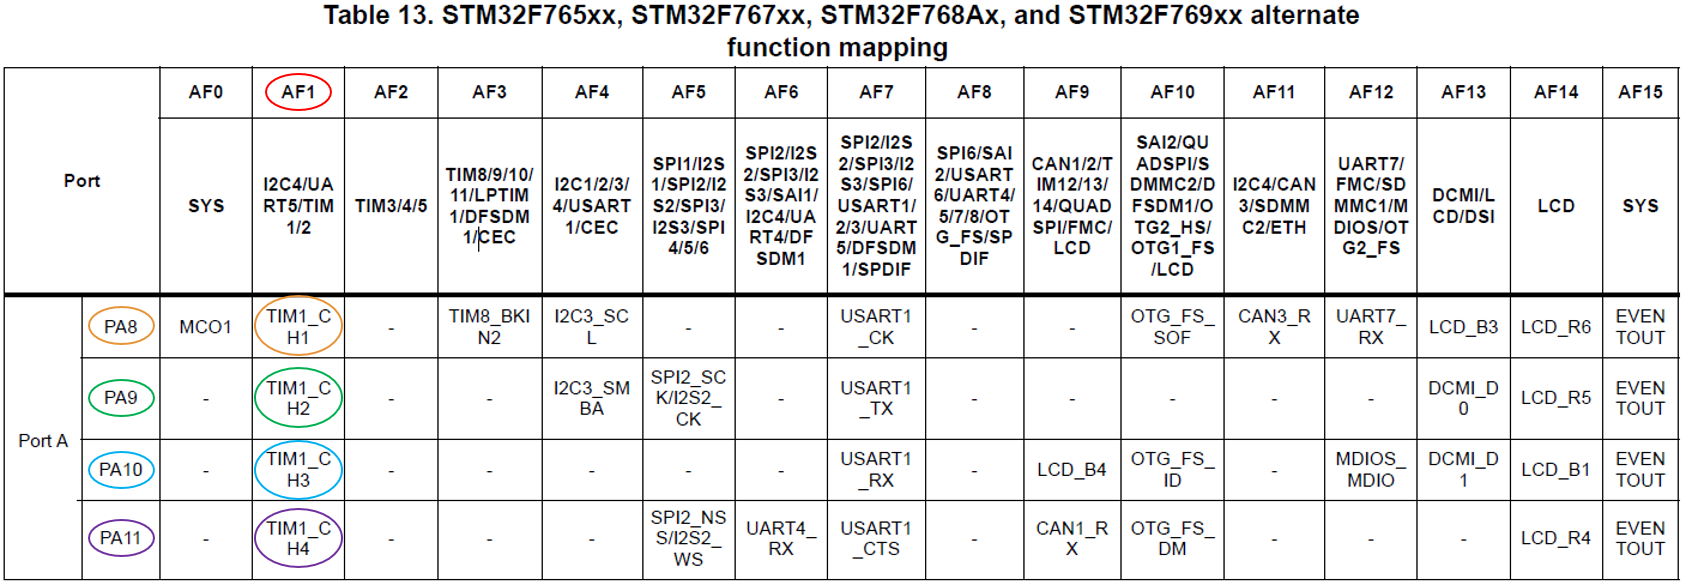
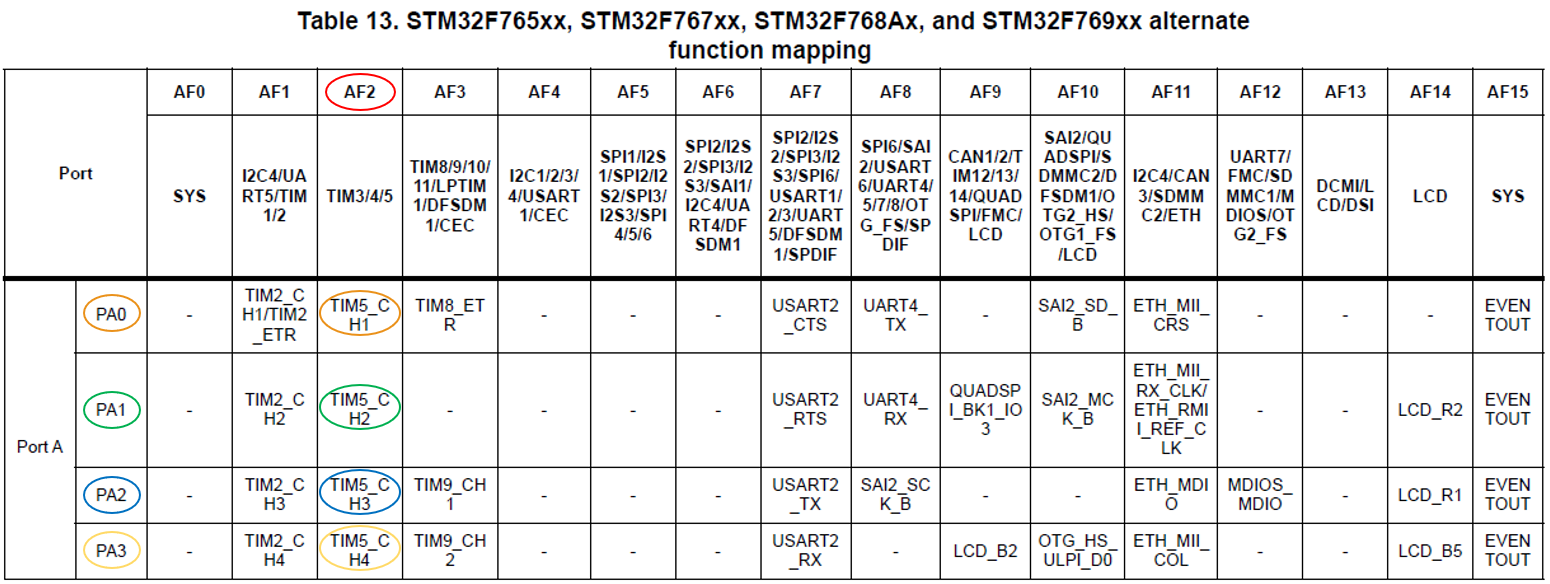
ARFL register image

Changed region(s): [[0.0, 0.0, 1.0, 1.0], [0.031, 0.2774, 0.0619, 0.339]]

diff --git a/Aula22/README.md b/Aula22/README.md
@@ -206,6 +206,12 @@ int main(){
 ```
 
 <div align="center">
+<img src="image-3.png" alt="AFRL"/>
+<br>
+<figcaption>Fuente: Manual de referencia</figcaption>
+</div>
+
+<div align="center">
 <img src="image-2.png" alt="AF TM1 canales 1,2,3 y 4"/>
 <br>
 <figcaption>Fuente: Manual de referencia</figcaption>
